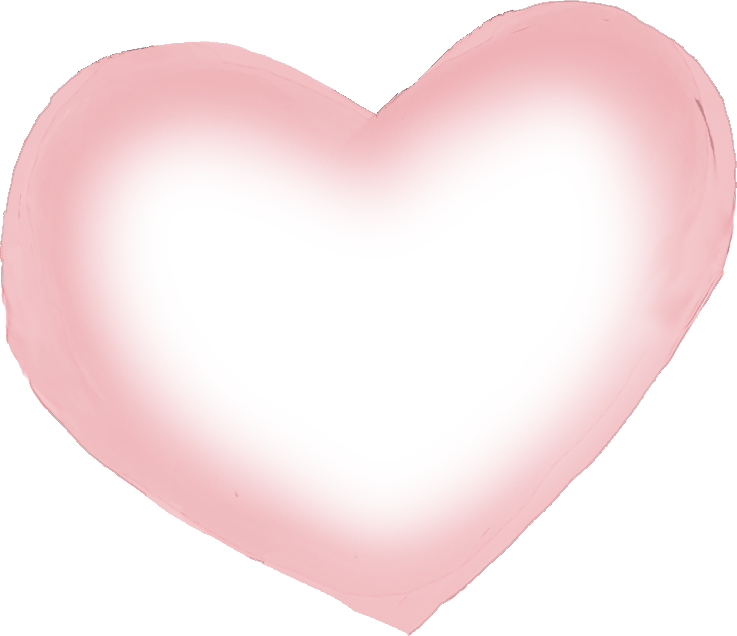
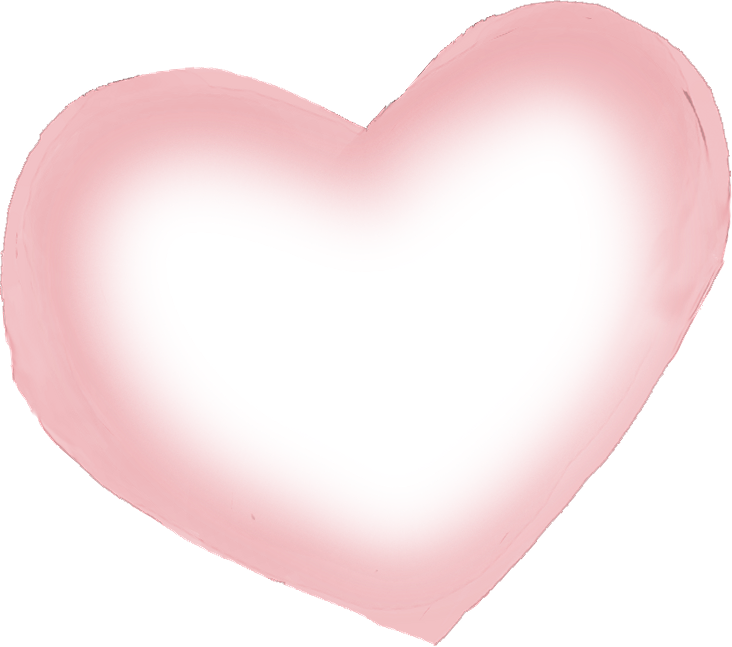
Straighten heart in header mark

diff --git a/service-worker.js b/service-worker.js
@@ -1,4 +1,4 @@
-const CACHE_NAME = "palavras-de-amor-v29";
+const CACHE_NAME = "palavras-de-amor-v30";
 const APP_SHELL = ["/", "/style.css", "/app.js", "/portuguese-words.js", "/assets/brand-heart.png", "/assets/brand-m.png", "/manifest.webmanifest", "/icon.svg"];
 
 self.addEventListener("install", event => {
